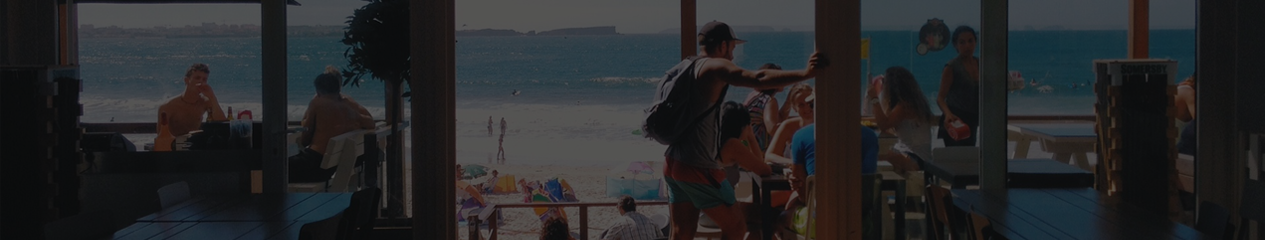
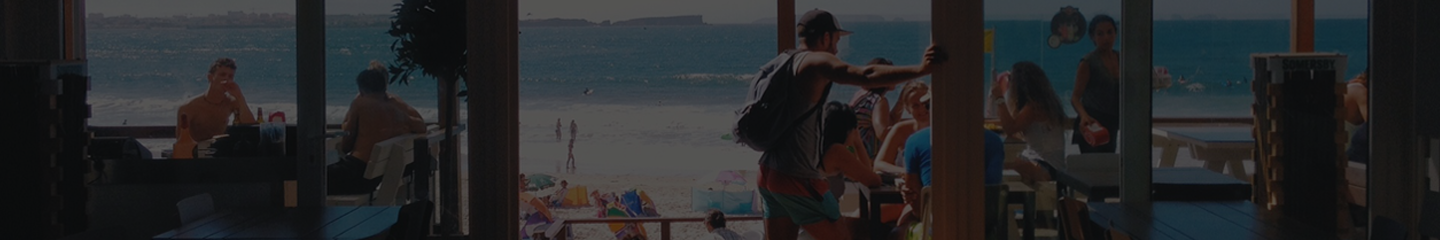
포스트 컴포넌트 헤더영역의 고정 이미지 및 슬로건 컴포넌트 구현

diff --git a/src/lib/config/grid.scss b/src/lib/config/grid.scss
@@ -7,7 +7,7 @@
 }
 .susy-home {
   // background: rgba(0, 141, 0, 0.45);
-  height: 100vh;
+  // height: 100vh;
 }
 .susy-user {
   // background: aqua;
@@ -17,13 +17,17 @@
   // background: lightsteelblue;
   // height: 100vh;
 }
+.susy-slogan {
+  // background: green;
+  // height: 100vh;
+}
 .susy-post-photo {
   background: rgba(0, 141, 0, 0.45);
-  height: 100vh
+  // height: 100vh
 }
 .susy-post-diary {
   background: rgba(0, 59, 165, 0.45);
-  height: 100vh
+  // height: 100vh
 }
 
 @include susy-breakpoint(320px, 4) {
@@ -38,6 +42,35 @@
   }
   .susy-main {
     @include span(4);
+  }
+  .susy-slogan-1 {
+    @include span(4);
+    font-size: 25px;
+    // position: absolute;
+    // top: 15%;
+    // left: 0;
+    position: absolute;
+    top: 0;
+    z-index: 1000;
+    margin-top: -49px;
+    left: 50%;
+    transform: translateX(-58%);
+    width: 170px;
+  }
+  .susy-slogan-2 {
+    @include span(4);
+    font-size: 25px;
+    // position: absolute;
+    // top: 15%;
+    // left: 0;
+    position: absolute;
+    top: 28px;
+    z-index: 1000;
+    margin-top: -49px;
+    left: 50%;
+    transform: translateX(-58%);
+    width: 170px;
+    
   }
   .susy-post-photo {
     @include span(4);
@@ -59,6 +92,28 @@
   .susy-main {
     @include span(isolate 6 at 2);
   }
+  .susy-slogan-1 {
+    @include span(8);
+    font-size: 50px;
+    position: absolute;
+    top: 0;
+    z-index: 1000;
+    margin-top: -93px;
+    left: 50%;
+    transform: translateX(-52%);
+    width: 350px;
+  }
+  .susy-slogan-2 {
+    @include span(8);
+    font-size: 50px;
+    position: absolute;
+    top: 55px;
+    z-index: 1000;
+    margin-top: -93px;
+    left: 50%;
+    transform: translateX(-52%);
+    width: 350px;
+  }
   .susy-post-photo {
     @include span(isolate 3 at 2 nest);
   }
@@ -78,6 +133,24 @@
   }
   .susy-main {
     @include span(isolate 8 at 3);
+  }
+  .susy-slogan-1 {
+    @include span(12);
+    font-size: 70px;
+    position: absolute;
+    top: 0;
+    margin-top: -135px;
+    left: 100%;
+    transform: translateX(-69.5%)
+  }
+  .susy-slogan-2 {
+    @include span(12);
+    font-size: 70px;
+    position: absolute;
+    top: 80px;
+    margin-top: -135px;
+    left: 100%;
+    transform: translateX(-69.5%)
   }
   .susy-post-photo {
     @include span(isolate 4 at 3 nest);

diff --git a/src/components/Home.vue b/src/components/Home.vue
@@ -1,23 +1,24 @@
-<template lang="pug"> 
-  .home-container
-    header-logo
-    sign-in( v-show='signIn' )
-    sign-up( v-show='signUp' )
-    video-bg
-    .home-slogan.susy-home( v-show='mainView' )
-      main.home-slogan-first
-        p Love, Eat, and Write Your Diary
-      main.home-slogan-second
-        | 오늘 먹었던 맛있는 음식을 남기는 나만의 공간. 
-        br
-        | 자신만의 맛있는 일기장을 만들어 보세요!  
-      .home-buttons
-        button.home-buttons-signup(
-          type='button' 
-          @click='openSignUp') 회원가입
-        button.home-buttons-signin(
-          type='button'
-          @click='openSignIn') 로그인
+<template lang="pug">
+  post
+  //- .home-container
+  //-   header-logo
+  //-   sign-in( v-show='signIn' )
+  //-   sign-up( v-show='signUp' )
+  //-   video-bg
+  //-   .home-slogan.susy-home( v-show='mainView' )
+  //-     main.home-slogan-first
+  //-       p Love, Eat, and Write Your Diary
+  //-     main.home-slogan-second
+  //-       | 오늘 먹었던 맛있는 음식을 남기는 나만의 공간. 
+  //-       br
+  //-       | 자신만의 맛있는 일기장을 만들어 보세요!  
+  //-     .home-buttons
+  //-       button.home-buttons-signup(
+  //-         type='button' 
+  //-         @click='openSignUp') 회원가입
+  //-       button.home-buttons-signin(
+  //-         type='button'
+  //-         @click='openSignIn') 로그인
 </template>
 
 <script>
@@ -28,6 +29,7 @@ import HeaderLogo from './Header'
 import SignIn from './SignIn'
 import SignUp from './SignUp'
 import Calendar from './Calendar'
+import Post from './Post/Post'
 
 export default {
   name: 'Home',
@@ -37,6 +39,7 @@ export default {
     SignIn,
     SignUp,
     Calendar,
+    Post,
   },
   data() {
     return {

diff --git a/src/sass/post.sass b/src/sass/post.sass
@@ -1,0 +1,89 @@
+
+.header-img img
+  width: 100%
+
+.slogan-group
+  background: yellow
+  margin: 0
+  padding: 0
+  position: relative
+
+.slogan-love
+  font-family: 'Saira', sans-serif
+  font-weight: 200
+  display: inline
+  color: #fff
+
+.slogan-write
+  font-family: 'Saira', sans-serif
+  font-weight: 300
+  color: #fe836d
+  // background: green
+  // display: inline
+.slogan-date
+  color: #fff
+  background: #fe836d
+  display: inline-block
+  padding: 0.4% 1.3%
+ 
+
+// // write-group 영역
+// .write-group
+  
+// .add-diary
+//   // display: flex
+//   // align-items: center
+//   // justify-content: center
+//   // flex-wrap: wrap
+
+// .add-btn
+//   background: none
+//   border: none
+//   color: #303030
+//   font-weight: lighter
+//   font-size: 28px
+//   cursor: pointer
+
+// .plus
+//   font-size: 35px
+//   color: #fe836d
+//   // padding-right: 10px
+
+// .plz-write
+//   // position: relative
+//   // margin-top: 50px
+
+// .plz-write .fa
+//   color: #d1d1d1
+
+// .plz-text-1
+//   font-size: 40px
+//   // display: flex
+//   // align-items: center 
+//   // justify-content: center 
+//   // flex-wrap: wrap 
+
+// .highlight
+//   color: #fe836d
+//   font-size: 50px
+//   font-weight: 300
+//   line-height: 1.6   
+
+// .plz-text-2
+//   font-size: 40px
+//   // display: flex
+//   // align-items: center 
+//   // justify-content: center 
+//   // flex-wrap: wrap 
+
+// .fa-quote-left
+//   // position: absolute
+//   // top: 20%
+//   // left: 27%
+//   // margin: -32px 0 0 -21px  
+
+// .fa-quote-right
+//   // position: absolute
+//   // top: 88%
+//   // right: 21%
+//   // margin: -32px 0 0 -21px

diff --git a/src/components/HeaderSlogan.vue b/src/components/HeaderSlogan.vue
@@ -1,0 +1,21 @@
+<template lang="pug">
+  .header-img-container
+    .header-img
+      img(src="../assets/header-img/header-img-3.png")
+    .slogan-group
+      p.slogan-love.susy-slogan-1 Love, Eat and
+        p.slogan-write.susy-slogan-2 Write on 
+          span.slogan-date 15 Jul
+</template>
+
+<script>
+export default {
+  name: 'HeaderSlogan',
+}
+</script>
+
+<style lang="sass">
+
+</style>
+
+

diff --git a/src/components/Post/Post.vue b/src/components/Post/Post.vue
@@ -1,20 +1,26 @@
 <template lang="pug">
   .post-container
     header-logo
+    header-slogan
+     
+   
+
 </template>
 
 <script>
 import HeaderLogo from '../Header'
+import HeaderSlogan from '../HeaderSlogan'
 
 export default {
   name: 'Post',
   components: {
-    HeaderLogo,
+    HeaderLogo, HeaderSlogan,
   }
 }
 </script>
 
 <style lang="sass">
+
 
 </style>
 

diff --git a/src/components/Header.vue b/src/components/Header.vue
@@ -9,9 +9,6 @@
 <script>
 export default {
   name: 'HeaderLogo',
-  components: {
-    
-  }
 }
 </script>
 

diff --git a/src/sass/app.sass b/src/sass/app.sass
@@ -7,3 +7,4 @@
 @import './signin'
 @import './signup'
 @import './calendar'
+@import './post'
